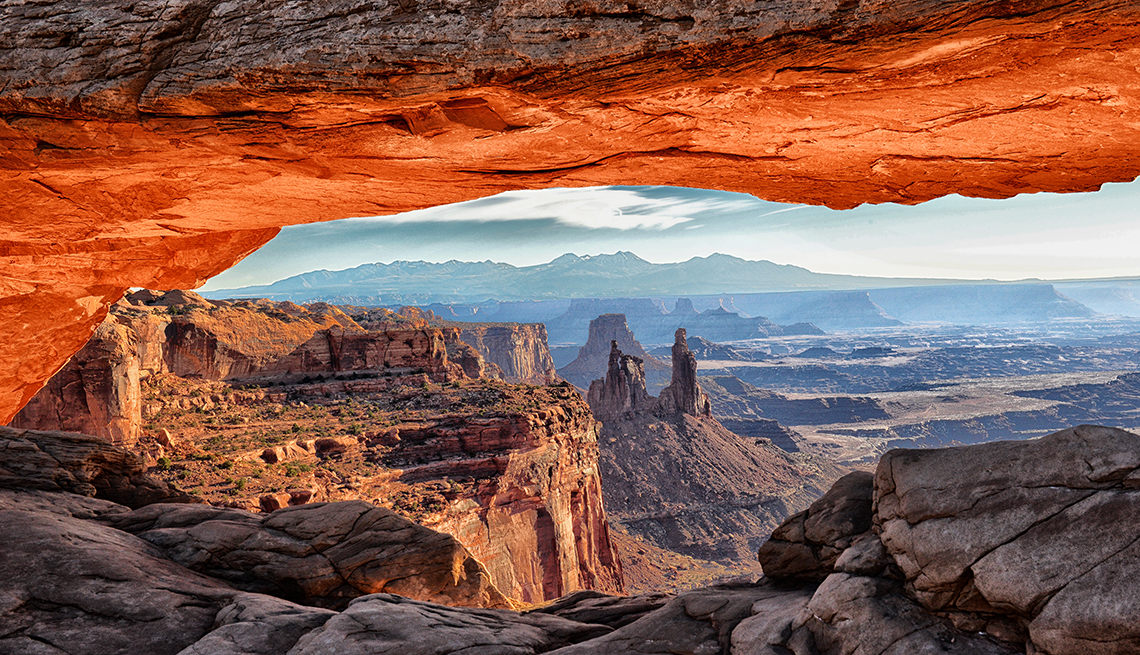
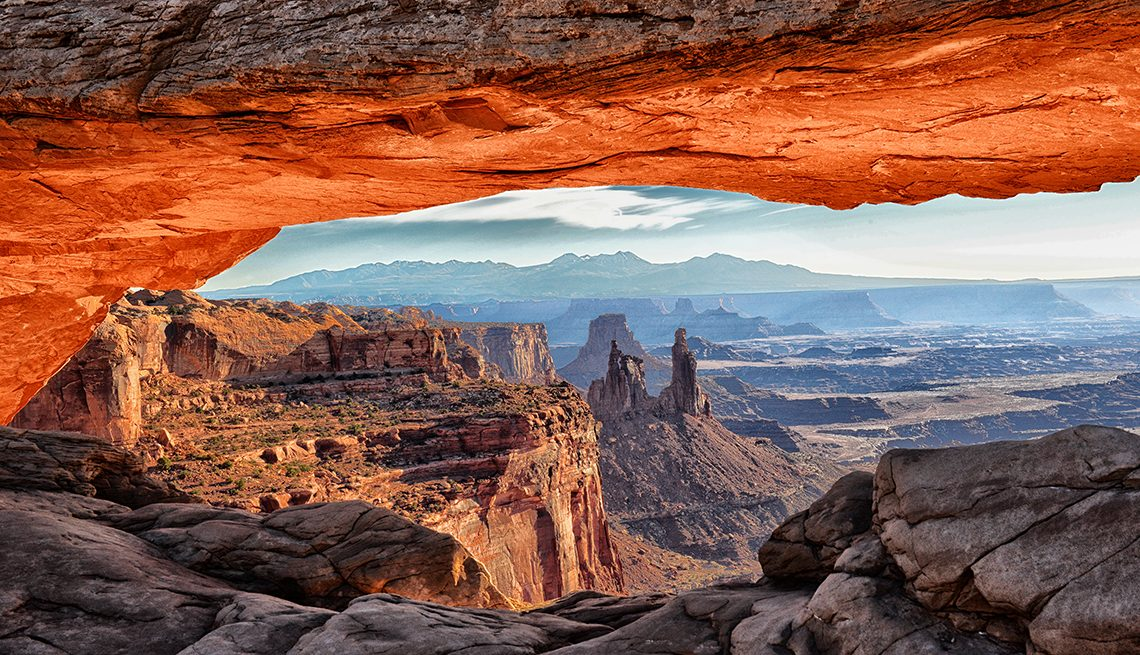
CI: site guardrail (critical-asset + link + image-weight + voice checks); compress isky.jpg 1058KB->241KB (caught by guardrail)

diff --git a/checks/site_check.py b/checks/site_check.py
@@ -1,0 +1,84 @@
+#!/usr/bin/env python3
+"""
+site_check.py — Sand & Stars Touring site guardrail.
+Runs in CI on every push (and locally: `python3 checks/site_check.py`).
+
+HARD fails (exit 1) only on regressions that have actually bitten this site:
+  - missing critical assets (og.jpg, favicon.ico, apple-touch-icon.png, sitemap.xml, llms.txt)
+WARN only (never fails the build) on:
+  - broken internal links, oversized customer-facing images (>600KB), em dashes in copy
+
+Rationale: hard-fail only on certain regressions so John never gets a false-alarm
+email; everything else surfaces as a warning in the Actions log.
+"""
+import os, re, sys, glob
+
+ROOT = os.path.dirname(os.path.dirname(os.path.abspath(__file__)))
+os.chdir(ROOT)
+hard, warn = [], []
+
+# 1. Critical assets must exist (the og.jpg 404 regression guard).
+for a in ["assets/og.jpg", "favicon.ico", "favicon-32.png", "apple-touch-icon.png", "sitemap.xml", "llms.txt", "robots.txt"]:
+    if not os.path.isfile(a):
+        hard.append(f"MISSING critical asset: {a}")
+
+# Gather HTML pages (root + tours/), skip archives/garage/rover/fancy.
+pages = [p for p in glob.glob("*.html") + glob.glob("tours/*.html")
+         if not p.startswith(("_", "fancy/"))]
+
+IMG_BUDGET = 600 * 1024
+def local_target(href, base_dir):
+    if re.match(r'^(https?:|mailto:|tel:|sms:|#|data:)', href):
+        return None
+    href = href.split("#")[0].split("?")[0]
+    if not href:
+        return None
+    if href.startswith("/"):
+        path = href.lstrip("/")
+    else:
+        path = os.path.normpath(os.path.join(base_dir, href))
+    return path
+
+for page in pages:
+    base = os.path.dirname(page)
+    html = open(page, encoding="utf-8").read()
+    # 2. Internal link / asset existence (warn).
+    for attr in ("href", "src"):
+        for m in re.finditer(attr + r'="([^"]+)"', html):
+            tgt = local_target(m.group(1), base)
+            if tgt is None:
+                continue
+            if os.path.isfile(tgt) or os.path.isdir(tgt):
+                continue
+            # GH Pages serves extensionless: accept X.html or X/index.html
+            if os.path.isfile(tgt + ".html") or os.path.isfile(os.path.join(tgt, "index.html")):
+                continue
+            warn.append(f"{page}: broken {attr} -> {m.group(1)}")
+    # 3. Oversized images referenced (warn).
+    for m in re.finditer(r'src="([^"]+\.(?:jpg|jpeg|png|webp))"', html, re.I):
+        tgt = local_target(m.group(1), base)
+        if tgt and os.path.isfile(tgt):
+            kb = os.path.getsize(tgt)
+            if kb > IMG_BUDGET:
+                warn.append(f"{page}: heavy image {m.group(1)} = {kb//1024}KB (budget 600KB)")
+    # 4. Em dash in customer copy (warn) — voice rule is zero.
+    body = re.sub(r'<script.*?</script>', '', html, flags=re.S)
+    body = re.sub(r'<style.*?</style>', '', body, flags=re.S)
+    n = body.count("—")
+    if n:
+        warn.append(f"{page}: {n} em dash(es) in copy (voice rule = none)")
+
+# De-dupe warnings, keep order.
+seen = set(); warn = [w for w in warn if not (w in seen or seen.add(w))]
+
+print(f"Checked {len(pages)} pages.\n")
+if warn:
+    print(f"WARNINGS ({len(warn)}):")
+    for w in warn: print("  - " + w)
+    print()
+if hard:
+    print(f"HARD FAILURES ({len(hard)}):")
+    for h in hard: print("  - " + h)
+    print("\nFAIL")
+    sys.exit(1)
+print("PASS (no critical-asset regressions)")